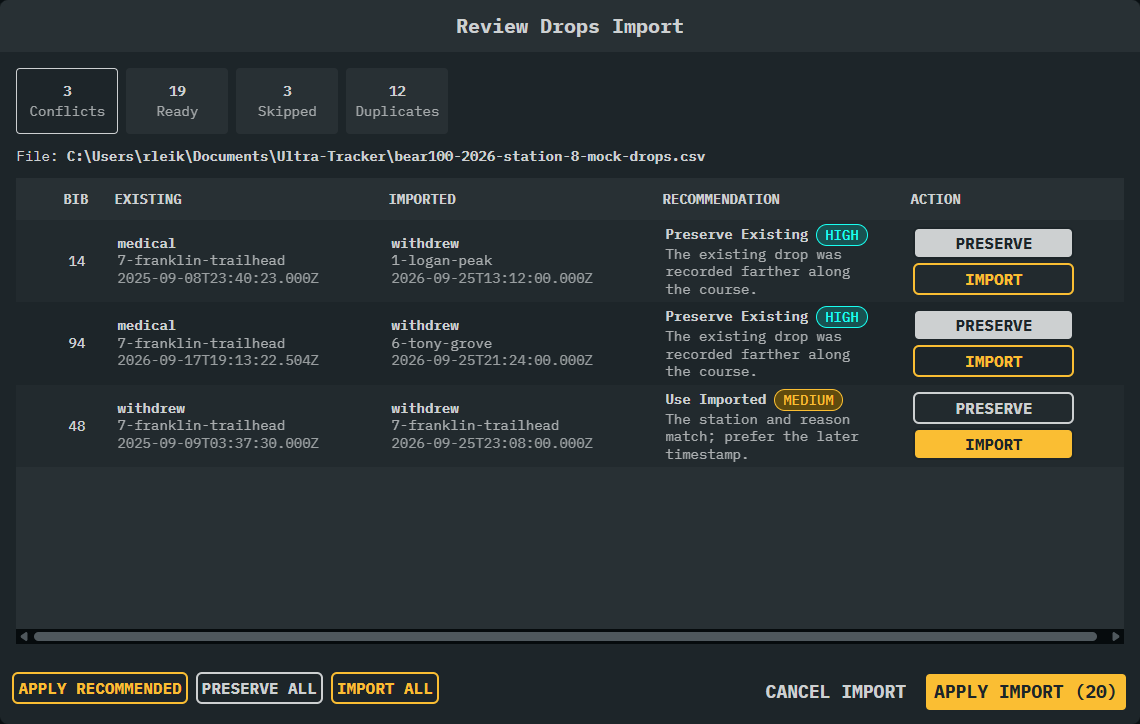
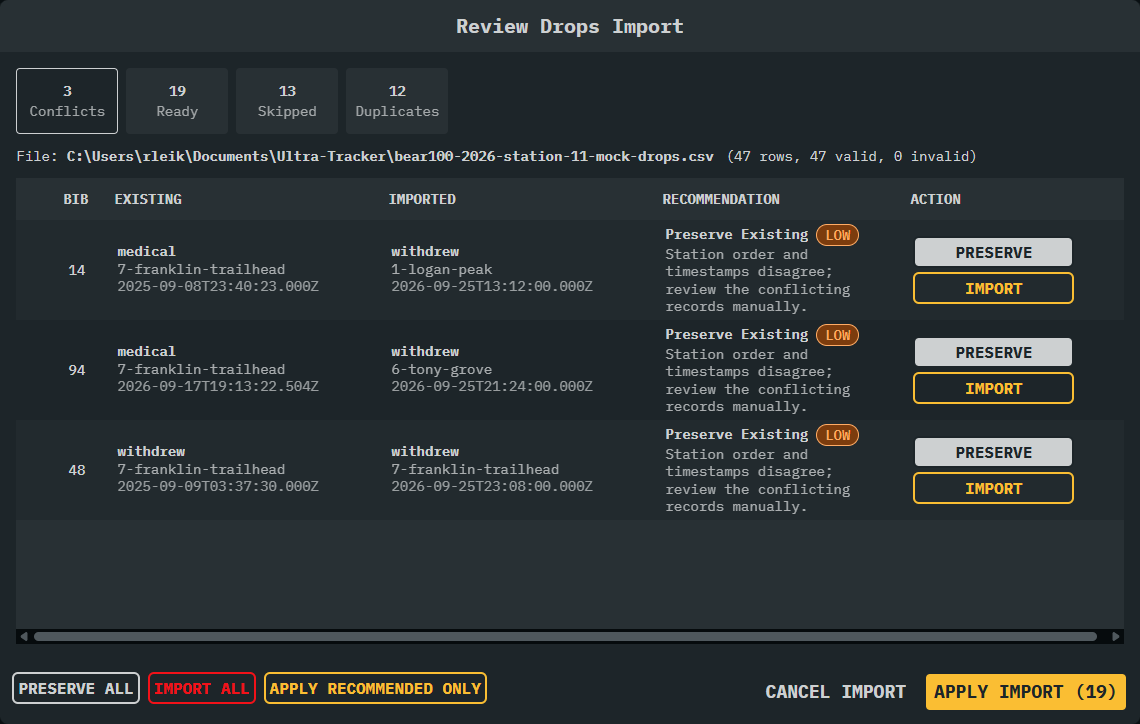
docs(drops): update import review guidance
Update the drops import documentation and screenshot to describe
row counts, recommendation-only decisions, and Import All confirmation.

diff --git a/src/renderer/src/assets/documents/get-started.md b/src/renderer/src/assets/documents/get-started.md
@@ -276,9 +276,9 @@ This page allows the operator to manage event input files and the database neede
 
   As an event proceeds more Drops will be recorded and new Drops files will be supplied to stations.
 
-  Loading a new Drops file opens **Review Drops Import** before any data is imported. The review shows separate counts for **Conflicts**, **Ready**, **Skipped**, and **Duplicates**. Drops past the current station are skipped to preserve the current station stats, while ready records can be imported without additional decisions.
+  Loading a new Drops file opens **Review Drops Import** before any data is imported. The review shows separate counts for **Conflicts**, **Ready**, **Skipped**, and **Duplicates**, along with the total rows read, valid records, and invalid rows. Drops past the current station are skipped to preserve the current station stats, while ready records can be imported without additional decisions.
 
-  For each conflict, the review shows the existing and imported station, drop reason, and time. A recommendation explains which record is preferred and why. Select **Preserve** or **Import** for an individual conflict, or use **Apply Recommended**, **Preserve All**, or **Import All** for batch decisions. The **Apply Import** button shows how many records will be imported. Select **Cancel Import** to leave all current data unchanged.
+  For each conflict, the review shows the existing and imported station, drop reason, and time. A recommendation explains which record is preferred and why. Select **Preserve** or **Import** for an individual conflict, or use **Apply Recommended Only**, **Preserve All**, or **Import All** for batch decisions. **Import All** requires confirmation because it selects the imported row for every conflict. The **Apply Import** button shows how many records will be imported. Select **Cancel Import** to leave all current data unchanged.
 
     ![drops-import-review.png](./img/drops-import-review.png)
 
